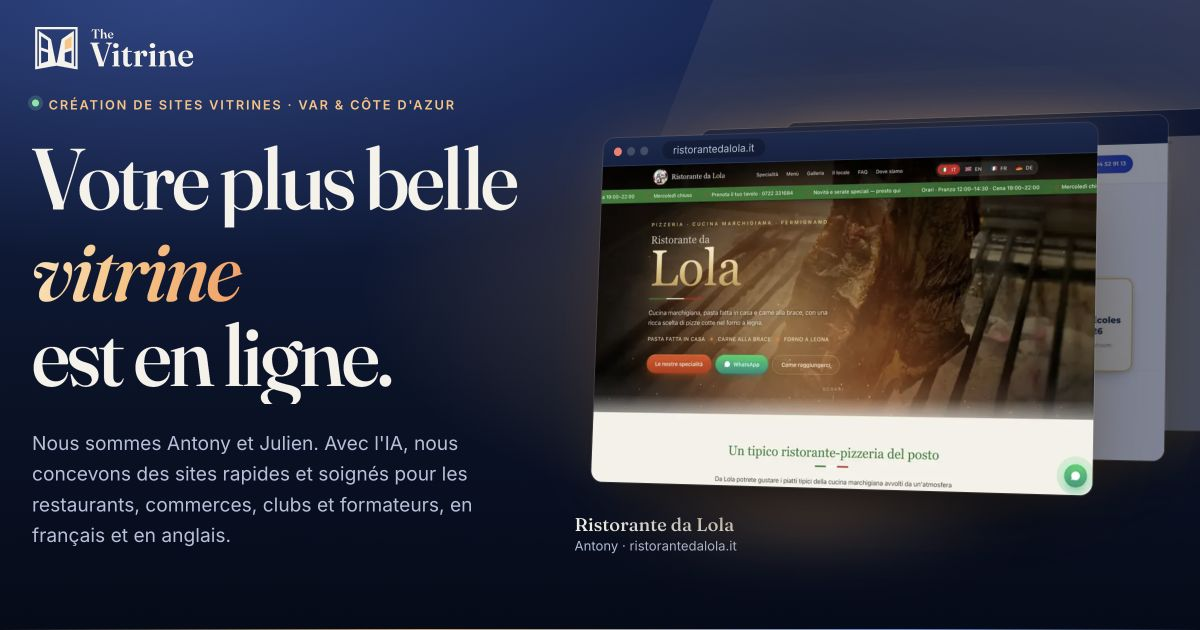
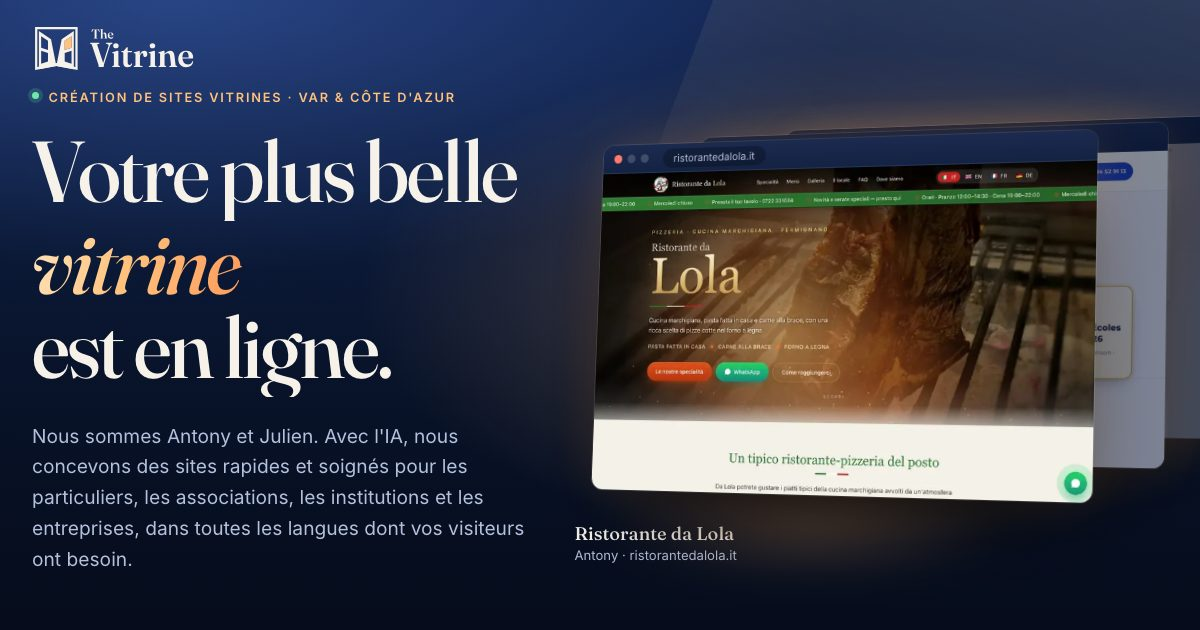
Widen who we work for and drop "French and English only"
The hero line, meta descriptions, "What we do" heading, intro and
audience line now speak to individuals, associations, institutions and
businesses of every size, in whatever languages visitors need, instead
of restaurants, shops, clubs and trainers in French and English. The
English title and eyebrow say "website design" / "made-to-measure
websites" rather than "small businesses". The FAQ answer on languages
follows, and the share images are re-rendered with the new line.

The share-image script now bypasses the site's content security policy
in its private browser, which otherwise blocks its style tweaks.

diff --git a/src/i18n.ts b/src/i18n.ts
@@ -9,8 +9,8 @@ export const casePath = (lang: Lang, slug: string) => (lang === "fr" ? `/realisa
 
 export const strings = {
   en: {
-    title: "Websites for small businesses on the French Riviera & in Bristol | The Vitrine",
-    description: "Fast, polished websites for restaurants, local businesses, clubs and teachers on the French Riviera and in Bristol. Browse our {n} live sites.",
+    title: "Website design on the French Riviera & in Bristol | The Vitrine",
+    description: "Fast, polished websites for individuals, associations, institutions and businesses, on the French Riviera and beyond, in any language. Browse our {n} live sites.",
     heading: "Websites and apps we've built with AI.",
     lede: "A shop window of our work. Each one is live: click through and try it.",
     filterLabel: "Filter projects",
@@ -31,12 +31,12 @@ export const strings = {
     notFoundTitle: "This window is empty",
     notFoundText: "The page you were looking for isn't here, or it has moved.",
     notFoundCta: "Back to the sites",
-    heroEyebrow: "Websites for small businesses · French Riviera & Bristol",
+    heroEyebrow: "Made-to-measure websites · French Riviera & Bristol",
     heroLine1: "Your best",
     heroAccent: "shop window",
     heroLine2: "is online.",
     heroSub:
-      "We're Antony and Julien. We use AI to design and build fast, beautiful websites for restaurants, local businesses, clubs and teachers, in English and French.",
+      "We're Antony and Julien. We use AI to design and build fast, beautiful websites for individuals, associations, institutions and businesses, in whatever languages your visitors speak.",
     heroCta: "See the {n} sites",
     heroCta2: "Start your project",
     heroProof: "{n} live sites · Côte d'Azur · Bristol · Italy",
@@ -72,12 +72,12 @@ export const strings = {
     legalLink: "Legal notice",
     shotAlt: "Home page of the {title} website ({host})",
     portfolioName: "Websites built by The Vitrine",
-    serviceName: "Website design for small businesses",
-    servicesHeading: "Websites for local businesses and independents",
+    serviceName: "Website design and build",
+    servicesHeading: "Made-to-measure websites, whatever your project",
     faqHeading: "Frequently asked questions",
-    servicesLede: "We design and build made-to-measure websites that load fast, work on every phone and are easy to find, for businesses on the French Riviera and beyond.",
+    servicesLede: "We design and build made-to-measure websites that load fast, work on every phone, are easy to find and speak your visitors' languages, on the French Riviera and beyond.",
     servicesWhoTitle: "Who we work with",
-    servicesWho: "Restaurants and bars, shops and tradespeople, health and wellbeing practitioners, sports clubs and associations, teachers and trainers.",
+    servicesWho: "Individuals, associations, institutions and businesses of every size: from restaurants, shops and tradespeople to practitioners, sports clubs and training organisations.",
     servicesWhatTitle: "What we build",
     servicesWhat: "Showcase websites, menus and online booking, sites in several languages, online learning platforms and made-to-measure tools.",
     servicesWhereTitle: "Where",
@@ -92,7 +92,7 @@ export const strings = {
   },
   fr: {
     title: "Création de sites vitrines dans le Var et sur la Côte d'Azur | The Vitrine",
-    description: "Sites vitrines rapides et soignés pour restaurants, commerces, clubs et formateurs du Var et des Alpes-Maritimes. Découvrez nos {n} sites en ligne.",
+    description: "Sites rapides et soignés pour particuliers, associations, institutions et entreprises, dans le Var, les Alpes-Maritimes et au-delà. Découvrez nos {n} sites.",
     heading: "Des sites et des applis créés avec l'IA.",
     lede: "La vitrine de notre travail. Tout est en ligne : cliquez et essayez.",
     filterLabel: "Filtrer les projets",
@@ -118,7 +118,7 @@ export const strings = {
     heroAccent: "vitrine",
     heroLine2: "est en ligne.",
     heroSub:
-      "Nous sommes Antony et Julien. Avec l'IA, nous concevons des sites rapides et soignés pour les restaurants, commerces, clubs et formateurs, en français et en anglais.",
+      "Nous sommes Antony et Julien. Avec l'IA, nous concevons des sites rapides et soignés pour les particuliers, les associations, les institutions et les entreprises, dans toutes les langues dont vos visiteurs ont besoin.",
     heroCta: "Voir les {n} sites",
     heroCta2: "Lancer votre projet",
     heroProof: "{n} sites en ligne · Côte d'Azur · Bristol · Italie",
@@ -155,11 +155,11 @@ export const strings = {
     shotAlt: "Page d'accueil du site {title} ({host})",
     portfolioName: "Sites réalisés par The Vitrine",
     serviceName: "Création de sites vitrines",
-    servicesHeading: "Des sites vitrines pour les commerces et les indépendants",
+    servicesHeading: "Des sites sur mesure, quel que soit votre projet",
     faqHeading: "Questions fréquentes",
-    servicesLede: "Nous concevons des sites vitrines sur mesure, rapides, adaptés au mobile et faciles à trouver, pour les entreprises du Var, des Alpes-Maritimes et d'ailleurs.",
+    servicesLede: "Nous concevons des sites sur mesure, rapides, adaptés au mobile, faciles à trouver et dans la langue de vos visiteurs, dans le Var, les Alpes-Maritimes et au-delà.",
     servicesWhoTitle: "Pour qui",
-    servicesWho: "Restaurants et bars, commerces et artisans, praticiens du bien-être, clubs sportifs et associations, formateurs et enseignants.",
+    servicesWho: "Particuliers, associations, institutions et entreprises de toutes tailles : des restaurants, commerces et artisans aux praticiens, clubs sportifs et organismes de formation.",
     servicesWhatTitle: "Ce que nous créons",
     servicesWhat: "Sites vitrines, menus et réservation en ligne, sites en plusieurs langues, plateformes d'apprentissage et outils sur mesure.",
     servicesWhereTitle: "Où",

diff --git a/src/data/faq.ts b/src/data/faq.ts
@@ -85,8 +85,8 @@ export const faq: Faq[] = [
     id: "languages",
     q: { fr: "Mon site peut-il être en plusieurs langues ?", en: "Can my site be in several languages?" },
     a: {
-      fr: "Oui. Nous créons des sites en français, en anglais et dans d'autres langues : le Ristorante da Lola, par exemple, existe en italien, anglais, français et allemand. Pratique sur la Côte d'Azur, où une partie de vos clients ne parle pas français.",
-      en: "Yes. We build sites in French, English and other languages: Ristorante da Lola, for example, is in Italian, English, French and German. Handy on the French Riviera, where some of your customers won't speak French.",
+      fr: "Oui, dans toutes les langues dont vos visiteurs ont besoin : le Ristorante da Lola, par exemple, existe en italien, anglais, français et allemand. Pratique sur la Côte d'Azur, où une partie de vos clients ne parle pas français.",
+      en: "Yes, in whatever languages your visitors need: Ristorante da Lola, for example, is in Italian, English, French and German. Handy on the French Riviera, where some of your customers won't speak French.",
     },
   },
   {
